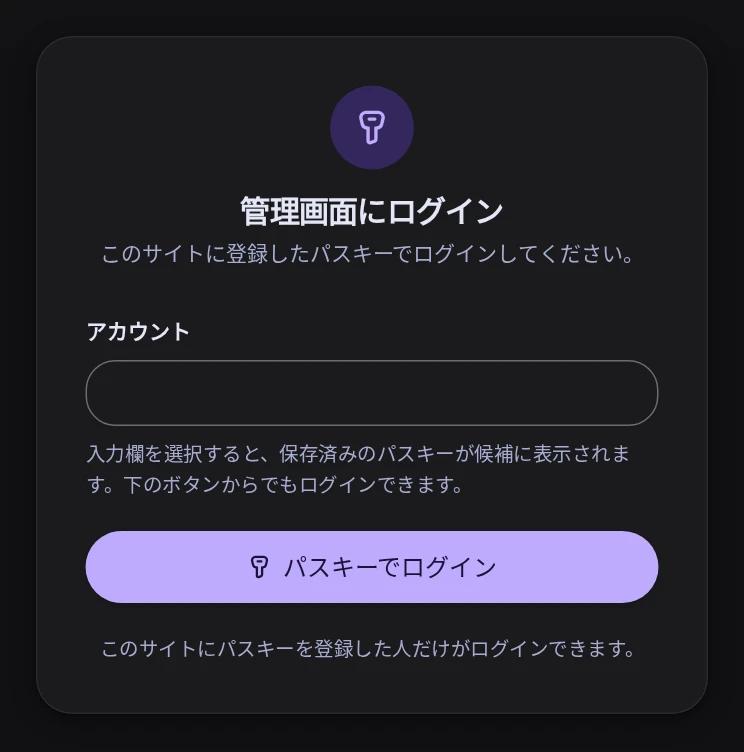
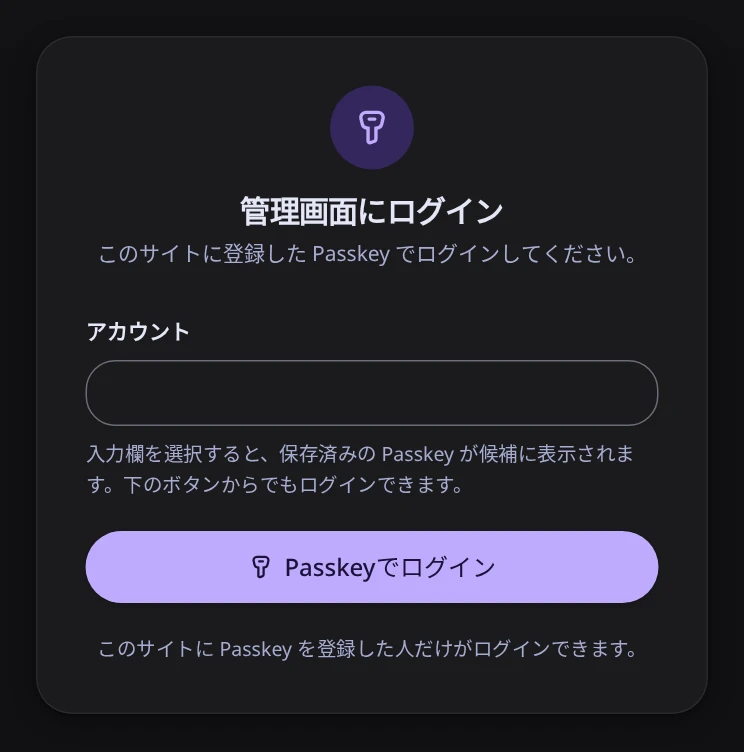
fix(i18n): spell the Japanese login method as Passkey in the admin UI, starter and screenshots (#44)

diff --git a/packages/server/admin-ui/src/shared/i18n/admin-messages.ts b/packages/server/admin-ui/src/shared/i18n/admin-messages.ts
@@ -318,21 +318,22 @@ const ja: Readonly<Record<AdminMessageKey, string>> = {
   'header.signedInAs': '{email} でログイン中',
 
   'login.title': '管理画面にログイン',
-  'login.lead': 'このサイトに登録したパスキーでログインしてください。',
-  'login.signingIn': 'パスキーの操作を待っています…',
+  'login.lead': 'このサイトに登録した Passkey でログインしてください。',
+  'login.signingIn': 'Passkey の操作を待っています…',
   'login.autofillLabel': 'アカウント',
   'login.autofillHint':
-    '入力欄を選択すると、保存済みのパスキーが候補に表示されます。下のボタンからでもログインできます。',
+    '入力欄を選択すると、保存済みの Passkey が候補に表示されます。下のボタンからでもログインできます。',
   'login.failed':
-    'ログインできませんでした。操作がキャンセルされたか、このサイトに登録されていないパスキーです。もう一度お試しください。',
+    'ログインできませんでした。操作がキャンセルされたか、このサイトに登録されていない Passkey です。もう一度お試しください。',
   'login.setupOpen': '管理者がまだ登録されていません。',
   'login.setupLink': '最初の管理者を登録',
-  'login.setupNote': 'このサイトにパスキーを登録した人だけがログインできます。',
+  'login.setupNote':
+    'このサイトに Passkey を登録した人だけがログインできます。',
 
   'setup.lead':
-    'シークレット SETUP_TOKEN の値と、ADMIN_EMAILS に含まれるメールアドレスを入力してください。そのあと、この端末にパスキーを登録します。',
+    'シークレット SETUP_TOKEN の値と、ADMIN_EMAILS に含まれるメールアドレスを入力してください。そのあと、この端末に Passkey を登録します。',
   'setup.step1': 'セットアップトークンの確認',
-  'setup.step2': 'パスキーの登録',
+  'setup.step2': 'Passkeyの登録',
   'setup.step3': '完了',
   'setup.stepOf': 'ステップ {current} / {total}',
   'setup.tokenHint': 'Cloudflare に設定したシークレット SETUP_TOKEN の値です。',
@@ -341,19 +342,19 @@ const ja: Readonly<Record<AdminMessageKey, string>> = {
   'setup.continue': '次へ',
   'setup.checking': '確認しています…',
   'setup.passkeyLead':
-    'パスキーはパスワードの代わりになるものです。端末やパスワード管理アプリに保存され、ログインするときは指紋や顔認証、PIN で本人確認をします。',
+    'Passkey はパスワードの代わりになるものです。端末やパスワード管理アプリに保存され、ログインするときは指紋や顔認証、PIN で本人確認をします。',
   'setup.passkeyDomain':
-    'パスキーはこのドメイン（{host}）でしか使えません。管理画面を独自ドメインに移す予定がある場合は、ここでは登録せず、先にそのドメインを設定してください。',
-  'setup.registering': 'パスキーの操作を待っています…',
+    'Passkey はこのドメイン（{host}）でしか使えません。管理画面を独自ドメインに移す予定がある場合は、ここでは登録せず、先にそのドメインを設定してください。',
+  'setup.registering': 'Passkey の操作を待っています…',
   'setup.passkeyFailed':
-    'パスキーを登録できませんでした。操作がキャンセルされたか、お使いのブラウザがパスキーに対応していません。もう一度お試しください。',
+    'Passkey を登録できませんでした。操作がキャンセルされたか、お使いのブラウザが Passkey に対応していません。もう一度お試しください。',
   'setup.doneTitle': 'セットアップが完了しました',
   'setup.doneLead':
-    'ログインしました。次回からは、いま登録したパスキーでログインしてください。セットアップ画面はこれで使えなくなりました。',
+    'ログインしました。次回からは、いま登録した Passkey でログインしてください。セットアップ画面はこれで使えなくなりました。',
   'setup.goToList': 'お問い合わせ一覧を開く',
   'setup.closedTitle': 'セットアップは完了しています',
   'setup.closedLead':
-    '管理者はすでに登録されています。パスキーでログインしてください。',
+    '管理者はすでに登録されています。Passkey でログインしてください。',
   'setup.unavailableTitle': 'セットアップに必要な設定がありません',
   'setup.problemMissing': '{name} が設定されていません。',
   'setup.problemTooShort': '{name} が {min} 文字より短いです。',
@@ -578,7 +579,7 @@ const ja: Readonly<Record<AdminMessageKey, string>> = {
 
   'forbidden.title': 'このアカウントでは管理画面を使えません',
   'forbidden.body':
-    'このメールアドレスは ADMIN_EMAILS に含まれていません。サイトの運用担当者に追加を依頼するか、別のパスキーでログインしてください。',
+    'このメールアドレスは ADMIN_EMAILS に含まれていません。サイトの運用担当者に追加を依頼するか、別の Passkey でログインしてください。',
 
   'error.generic': 'エラーが起きました。もう一度お試しください。',
 };

diff --git a/packages/server/src/shared/messages.ts b/packages/server/src/shared/messages.ts
@@ -110,7 +110,7 @@ const ja: MessageCatalog = {
   'error.not_found': '見つかりません。',
   'error.unauthorized': 'ログインしてください。',
   'error.forbidden': 'このアカウントでは管理画面を使えません。',
-  'error.passkey_required': 'パスキーを登録してください。',
+  'error.passkey_required': 'Passkey を登録してください。',
   'error.auth_unavailable':
     'ログインに必要な設定がありません。このサイトに BETTER_AUTH_SECRET（32 文字以上）を設定してください。',
   'error.setup_unavailable':
@@ -141,13 +141,13 @@ const ja: MessageCatalog = {
 
   'admin.title': 'お問い合わせ',
   'admin.unreadCount': '未読 {count} 件',
-  'admin.signIn': 'パスキーでログイン',
+  'admin.signIn': 'Passkeyでログイン',
   'admin.signOut': 'ログアウト',
   'admin.setup.title': '最初の管理者を登録',
   'admin.setup.token': 'セットアップトークン',
   'admin.setup.email': 'メールアドレス',
   'admin.setup.name': 'お名前',
-  'admin.setup.registerPasskey': 'パスキーを登録',
+  'admin.setup.registerPasskey': 'Passkeyを登録',
   'admin.export': 'CSV をダウンロード',
   'admin.delete': '削除',
   'admin.deleteConfirm':

diff --git a/templates/starter/src/content/pages/ja/privacy.md b/templates/starter/src/content/pages/ja/privacy.md
@@ -35,7 +35,7 @@ updated: 2026-10-22
 
 - 保存先の事業者: Cloudflare, Inc.（米国）
 - 事業者の個人情報の取り扱い: [Cloudflare のプライバシーポリシー](https://www.cloudflare.com/privacypolicy/)
-- 当社は、保存先の国の個人情報の保護に関する制度を確認したうえで、アクセスできる担当者を限り、管理画面にはパスキーによるログインを必須にするなどの安全管理措置をとっています。
+- 当社は、保存先の国の個人情報の保護に関する制度を確認したうえで、アクセスできる担当者を限り、管理画面には Passkey によるログインを必須にするなどの安全管理措置をとっています。
 
 <!-- 外国の制度の確認結果を具体的に書く場合は、個人情報保護委員会が公開している各国の制度の調査結果を参照してください。 -->
 

diff --git a/templates/starter/README.ja.md b/templates/starter/README.ja.md
@@ -89,7 +89,7 @@ Turnstile の確認。項目を変えたら、プライバシーポリシー
 
 1. `https://<サイトのドメイン>/admin` を開きます。
 2. `SETUP_TOKEN` と、`ADMIN_EMAILS` にあるメールアドレスを入力します。
-3. パスキーを登録します（スマートフォンや、コンピューターの指紋・顔での
+3. Passkey を登録します（スマートフォンや、コンピューターの指紋・顔での
    ログインなど）。パスワードはありません。
 
 最初の管理者を作ると、セットアップの画面は使えなくなります。
